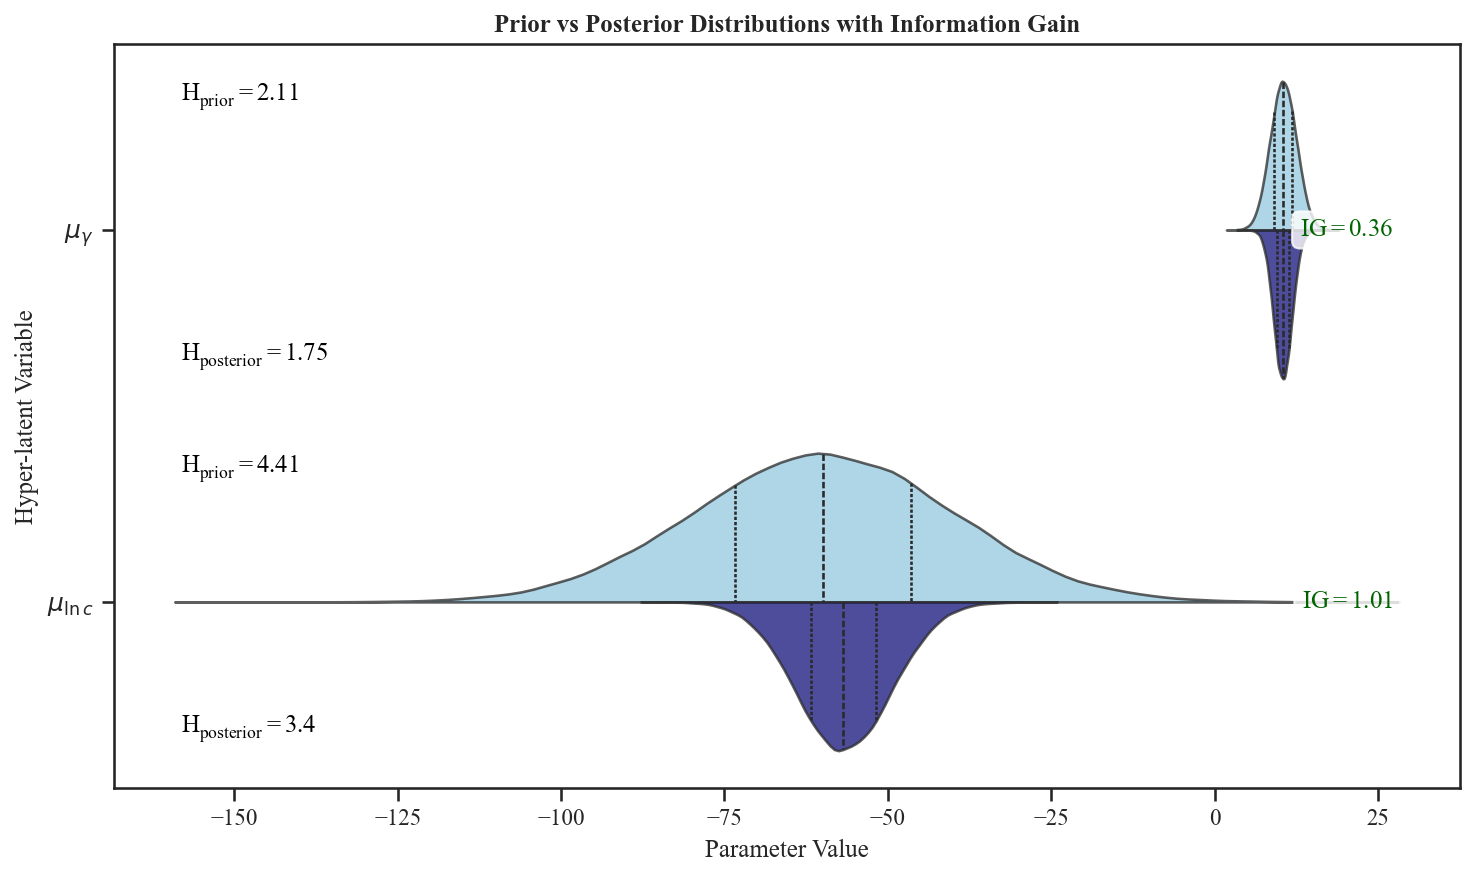
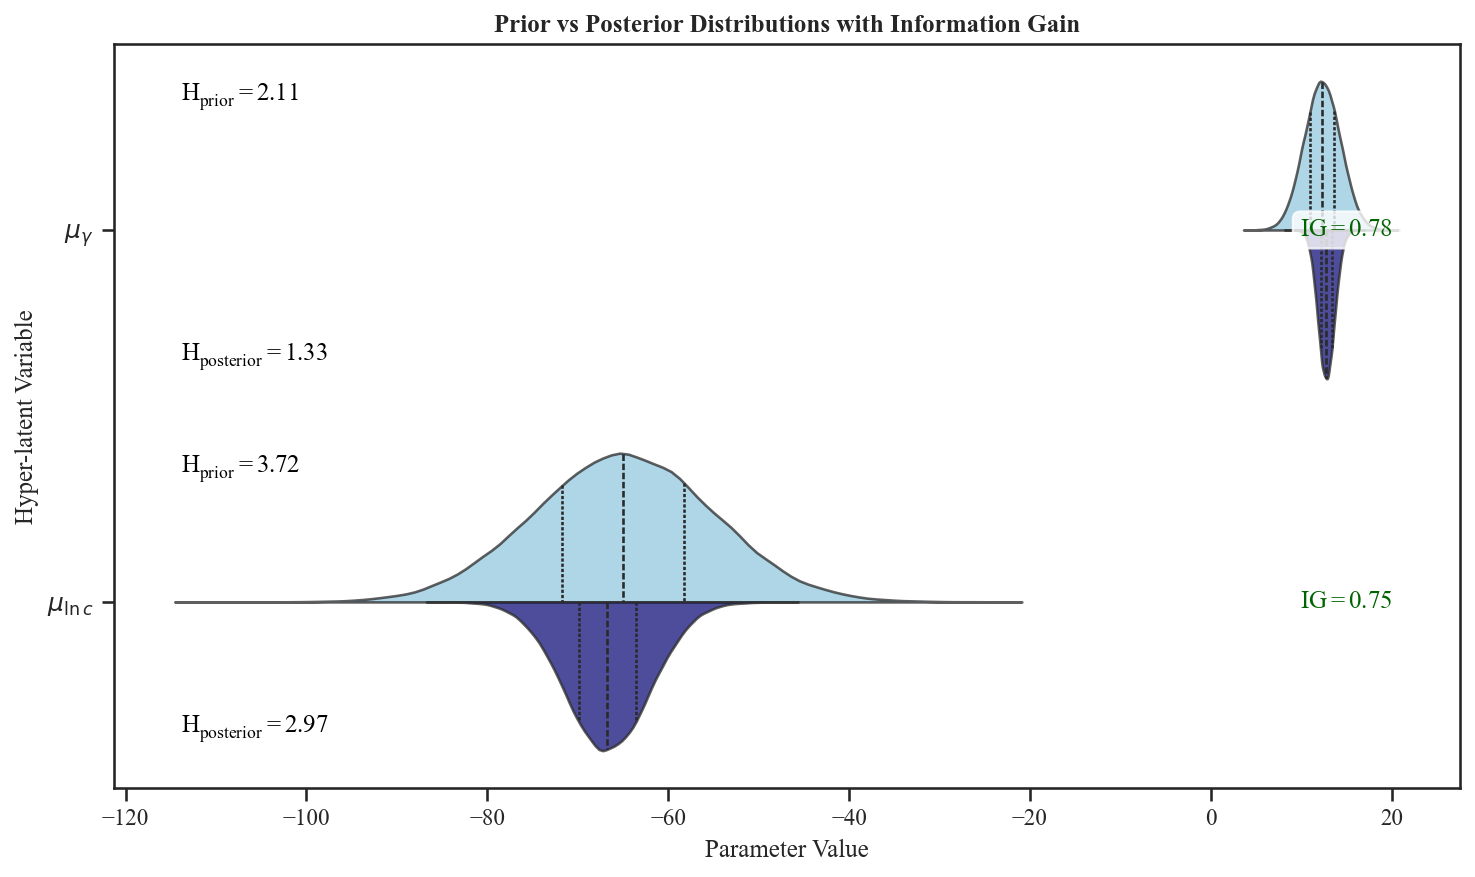
figure updates

diff --git a/demos/hybrid_bonding/dielectric.py b/demos/hybrid_bonding/dielectric.py
@@ -36,7 +36,7 @@ import stratcona
 # Keeping this model extremely simple so it can just be an extra mechanism
 # I want someway to be able to project cycles to failure but paper I have said they look mostly at gamma
 
-SET_TEMP = 100 # set this to the temperature you want to look at (100, 150, 175, 200)
+SET_TEMP = 150 # set this to the temperature you want to look at (100, 150, 175, 200)
 
 def hybrid_bonding_dielectric():
 
@@ -88,8 +88,8 @@ def hybrid_bonding_dielectric():
 
     selected_vbd, selected_ramprate = datasets_by_temp[SET_TEMP]
 
-    gamma_prior = {'loc': 10.5, 'scale': 2.0}
-    log_c_prior = {'loc': -60.0, 'scale': 20.0}
+    gamma_prior = {'loc': 12.3, 'scale': 2.0} # variance of 2.0 since that is roughly how much gamma varies in their datasets
+    log_c_prior = {'loc': -65, 'scale': 10.0}
 
     mb = stratcona.SPMBuilder(mdl_name='hb_dielectric')
     mb.add_params(meas_var=0.2) # measurement variance for log(ramp_rate)
@@ -195,14 +195,14 @@ def hybrid_bonding_dielectric():
         ax = axes[idx]
         
         # Plot posterior histogram
-        ax.hist(samples, bins=50, density=True, alpha=0.6, label='Posterior', color='blue', edgecolor='black')
+        ax.hist(samples, bins=50, density=True, alpha=0.6, label='Posterior', color='#5194F1', edgecolor='black')
         
         # Plot prior curve
         x_range = jnp.linspace(float(jnp.min(samples)), float(jnp.max(samples)), 200)
         if hyl_name in prior_specs:
             prior_dist = dists.Normal(**prior_specs[hyl_name])
             prior_pdf = jnp.exp(prior_dist.log_prob(x_range))
-            ax.plot(x_range, prior_pdf, 'r-', linewidth=2, label='Prior')
+            ax.plot(x_range, prior_pdf, '#D36CD3', linewidth=2, label='Prior')
         
         ax.set_xlabel(display_map.get(hyl_name, hyl_name))
         ax.set_ylabel('Density')

diff --git a/demos/hybrid_bonding/datagen_dielectric.py b/demos/hybrid_bonding/datagen_dielectric.py
@@ -198,7 +198,7 @@ def hybrid_bonding_dielectric():
             subplot_label = datasets[idx]['label']
             
             # Plot data points
-            ax.scatter(vbd, ramp_rate, color='red', s=100, zorder=5, marker='o')
+            ax.scatter(vbd, ramp_rate, color='#D36CD3', s=100, zorder=5, marker='o')
             
             # Fit line: ln(ramp_rate) = gamma * ln(vbd) + ln(prefactor)
             x = np.log(vbd)
@@ -212,7 +212,7 @@ def hybrid_bonding_dielectric():
             ramp_fit = np.exp(y_fit)
             
             # Plot fitted line
-            ax.plot(vbd_range, ramp_fit, 'r-', linewidth=2.5, zorder=3)
+            ax.plot(vbd_range, ramp_fit, '#D36CD3', linewidth=2.5, zorder=3)
             
             # Set scale and limits
             ax.set_yscale('log')

diff --git a/demos/hybrid_bonding/plot_gamma_fits.py b/demos/hybrid_bonding/plot_gamma_fits.py
@@ -57,12 +57,12 @@ def plot_gamma_fits():
         prefactor_fit, gamma_fit = popt
 
         # Plot data points
-        ax.scatter(vbd, ramprate, color='red', s=100, zorder=5, marker='o', label='Data')
+        ax.scatter(vbd, ramprate, color='#D36CD3', s=100, zorder=5, marker='o', label='Data')
 
         # Plot power-law fit curve over a wider voltage range
         vbd_range = np.linspace(min(vbd) * 0.85, max(vbd) * 1.10, 300)
         ramp_fit  = power_law(vbd_range, prefactor_fit, gamma_fit)
-        ax.plot(vbd_range, ramp_fit, 'r-', linewidth=2.5, zorder=3,
+        ax.plot(vbd_range, ramp_fit, '#D36CD3', linewidth=2.5, zorder=3,
                 label=f'Power law fit  $\\gamma={gamma_fit:.2f}$')
 
         ax.set_yscale('log')

diff --git a/demos/hybrid_bonding/electromigration.py b/demos/hybrid_bonding/electromigration.py
@@ -59,7 +59,7 @@ def hybrid_bonding_electromigration():
     # Define the model
     mb = stratcona.SPMBuilder(mdl_name='hb_electromigration')
 
-    # Add fixed stochastic parameters (hyperlatents only, no hierarchical latent variation)
+    # Add fixed stochastic parameters
     mb.add_hyperlatent('ea', dists.Normal, ea_prior)
     mb.add_hyperlatent('n', dists.Normal, n_prior)
     mb.add_hyperlatent('A', dists.Normal, A_prior)
